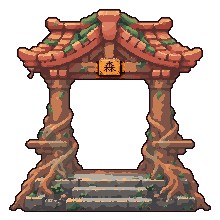
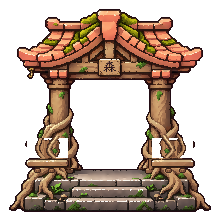
The Forest Hokora raised 8 art px in its window (the user, 2026-11-04: as far from its top as its bottom; the spirit stays): homes_install.py RAISE moves the forest's 220 layers up, its hooks, ledges and card corner with them; its trays lowered to the table's top and its greens a little paler (fores

diff --git a/tools/art/forest_trays_b.py b/tools/art/forest_trays_b.py
@@ -1,0 +1,84 @@
+"""The Forest Hokora with its trays lowered (the designer's final_b, 2026-11-04: the planks' top at row 158,
+the table's) and its greens a little paler (the user: "all greens could be slightly paler"):
+docs/mockups/hokora_homes/v8/forest_hokora/final_b/ -> v8/forest_hokora/final_c/ (final_b kept as delivered)
+
+  - every green pixel (the moss, ivy and their dark lines; hue GREEN_H, saturation over GREEN_S) of the
+    front, trays and inside: its saturation x PALE_S, its value PALE_V of the way to white
+  - the front's stray pieces (bits of the old trays' outline left beside the pillars) cleared
+  - materials.png for the Colours: final/'s where the front is unchanged; a changed pixel moss if green,
+    else stone if grey, else wood, its lines the material beside them, the outline none (as forest_v8.py)
+  - bell, beads, icon from final/ as they are
+
+Run: .venv/bin/python tools/art/forest_trays_b.py [--pale-s 0.8] [--pale-v 0.15]
+"""
+import argparse
+import colorsys
+import os
+import shutil
+import numpy as np
+from PIL import Image
+from scipy import ndimage
+
+D = "docs/mockups/hokora_homes/v8/forest_hokora/"
+A, B, OUT = D + "final/", D + "final_b/", D + "final_c/"
+GREEN_H, GREEN_S = (50, 170), 0.15
+GREY_S = 0.18                          # (a changed pixel this unsaturated: stone)
+LINE_L = 48                            # (a pixel this dark (luma): a line, as forest_v8.py)
+
+ap = argparse.ArgumentParser()
+ap.add_argument("--pale-s", type=float, default=0.8, help="the greens' saturation x this")
+ap.add_argument("--pale-v", type=float, default=0.15, help="the greens' value this far towards white")
+args = ap.parse_args()
+os.makedirs(OUT, exist_ok=True)
+
+
+def hsv_of(a):
+    return np.array([colorsys.rgb_to_hsv(*p) for p in a[..., :3].reshape(-1, 3) / 255]).reshape(a.shape[:2] + (3,))
+
+
+def greens(a):
+    h = hsv_of(a)
+    return (a[..., 3] > 0) & (h[..., 0] * 360 >= GREEN_H[0]) & (h[..., 0] * 360 < GREEN_H[1]) & (h[..., 1] >= GREEN_S), h
+
+
+def paler(a):
+    a = a.copy()
+    g, h = greens(a)
+    for y, x in zip(*np.where(g)):
+        hh, s, v = h[y, x]
+        a[y, x, :3] = np.round(np.array(colorsys.hsv_to_rgb(hh, s * args.pale_s, v + (1 - v) * args.pale_v)) * 255)
+    return a
+
+
+old = np.array(Image.open(A + "front.png").convert("RGBA")).astype(int)
+new = np.array(Image.open(B + "front.png").convert("RGBA")).astype(int)
+op = new[..., 3] > 0
+lab, n = ndimage.label(op)
+keep = lab == (np.bincount(lab.ravel())[1:].argmax() + 1)
+print("stray pixels cleared:", int((op & ~keep).sum()))
+new[~keep] = 0
+op = keep
+
+ch = (old != new).any(2)
+g, h = greens(new)
+L = new[..., :3] @ [0.299, 0.587, 0.114]
+edge = op & ~ndimage.binary_erosion(op)
+m_old = np.array(Image.open(A + "materials.png").convert("RGBA"))
+kind = np.where(m_old[..., 3] == 0, 0, np.where(m_old[..., 0] > 0, 3, np.where(m_old[..., 1] > 0, 4,
+                np.where(m_old[..., 2] > 0, 1, 2))))   # (1 stone, 2 wood, 3 roof, 4 moss)
+line = ch & op & ~edge & (L < LINE_L)
+kind[ch] = np.where(g, 4, np.where(h[..., 1] < GREY_S, 1, 2))[ch]
+kind[(ch & ~op) | edge | line] = 0
+iy, ix = ndimage.distance_transform_edt(kind == 0, return_distances=False, return_indices=True)
+kind[line] = kind[iy, ix][line]
+mask = np.zeros((220, 220, 4), np.uint8)
+mask[kind == 3, 0] = mask[kind == 4, 1] = mask[kind == 1, 2] = 255
+mask[..., 3] = np.where(kind > 0, 255, 0)
+Image.fromarray(mask).save(OUT + "materials.png")
+
+Image.fromarray(paler(new).astype(np.uint8)).save(OUT + "front.png")
+for f, src in (("trays.png", B), ("inside.png", A)):
+    Image.fromarray(paler(np.array(Image.open(src + f).convert("RGBA")).astype(int)).astype(np.uint8)).save(OUT + f)
+for f in ("bell.png", "bead_1.png", "bead_2.png", "icon.png"):
+    shutil.copy(A + f, OUT + f)
+print("greens made paler:", int(greens(new)[0].sum()), "front px ->", OUT)

diff --git a/tools/art/homes_install.py b/tools/art/homes_install.py
@@ -54,8 +54,17 @@ V62_HOMES = ["arcade_cabinet", "capsule_apartment", "ruined_night"]   # (v6.2, 2
                                          # go round again, its other fronts are re-exports of the approved ones)                       # (the forest side_back's rim colour)
 
 
+RAISE = {"forest": 8}                           # (art px up on the 220 grid: the forest sat low in the window, the
+                                                #  user, 2026-11-04: as far from its top as its bottom; the spirit stays)
+_raise = [0]
+
+
 def rgba(path):
-    return np.array(Image.open(path).convert("RGBA"))
+    a = np.array(Image.open(path).convert("RGBA"))
+    k = _raise[0]
+    if k and a.shape[0] == 220:                    # (a 220 layer of a raised home: moved up, the bottom left clear)
+        a = np.concatenate([a[k:], np.zeros((k,) + a.shape[1:], a.dtype)])
+    return a
 
 
 def save(arr, path):
@@ -77,6 +86,7 @@ def mid_tone(img, mask):
 
 
 for home in HOMES:
+    _raise[0] = RAISE.get(home, 0)
     d = SRC + home + "/"
     vers = ("v6_6/", "v6_5b/", "v6_5/", "v6_4/", "v6_2/", "v6_1/", "v6/", "v5_tech/", "v5/")
     ver = next((v for v in vers if os.path.exists(SRC + v + home + "/front.png")
